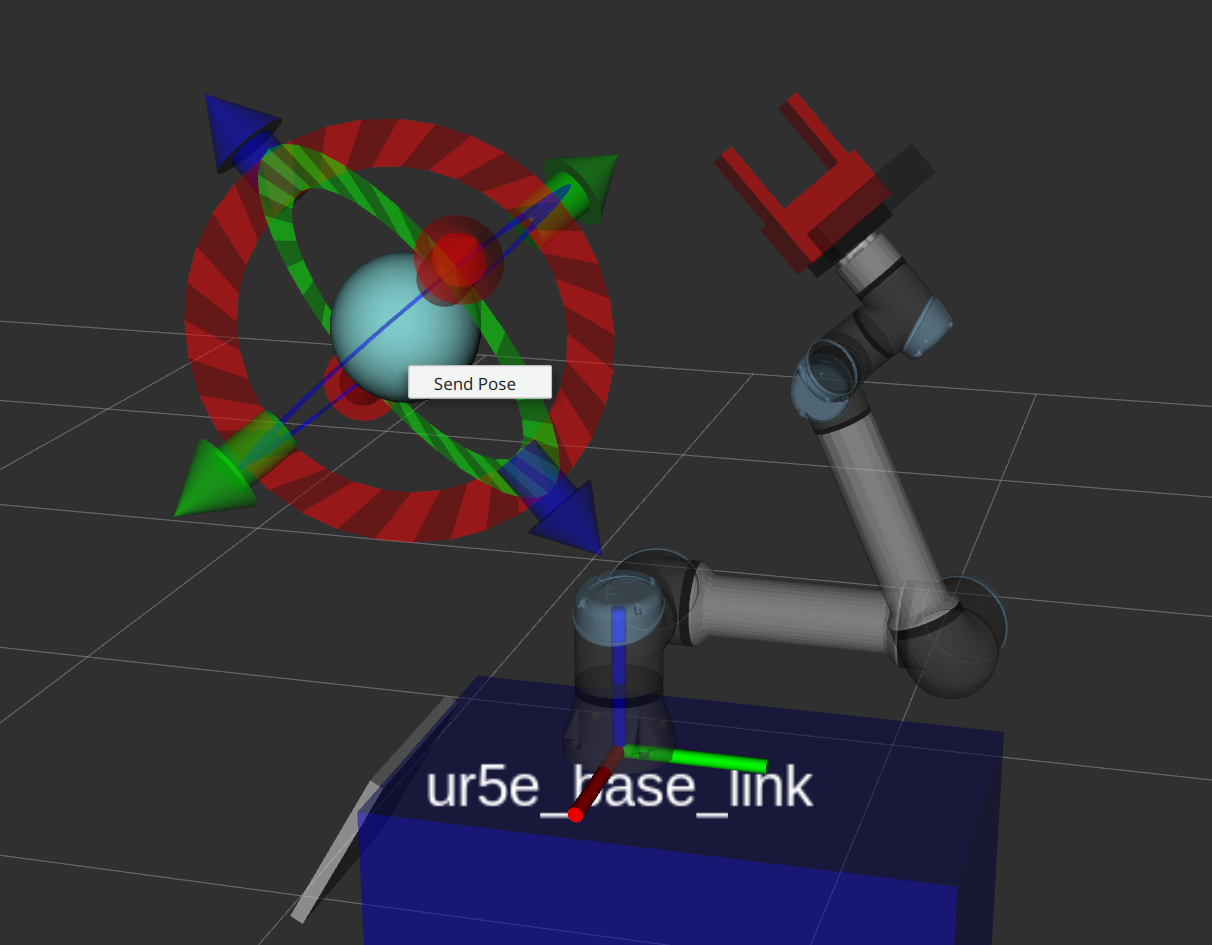
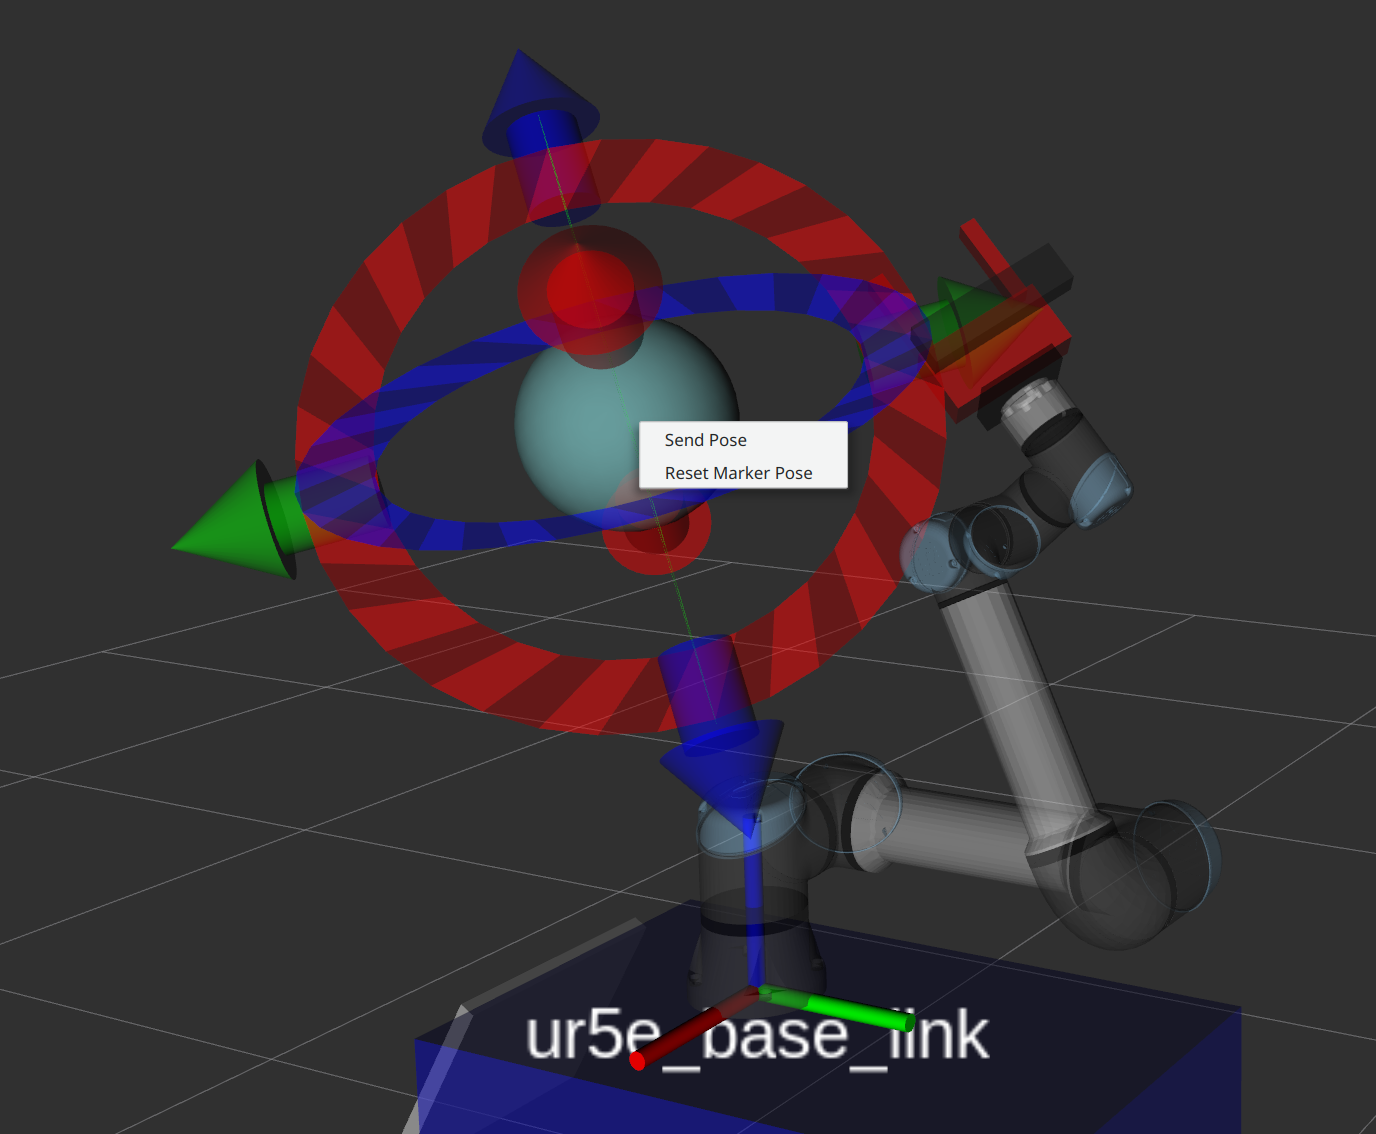
Doc: Updates marker image and add overlay explanation.

diff --git a/README.md b/README.md
@@ -61,3 +61,29 @@ This package publishes an interactive marker. You can move it to your desired go
 
 The marker position is updated when new goals arrive via messages or dynamic reconfigure.
 ![image info](./res/interactive_marker.png)
+
+## Apply an Overlay Motion
+
+The trajectory generator announces a service at `/cartesian_trajectory_generator/overlay_motion`.
+
+An example call can look like this:
+
+```
+rosservice call /cartesian_trajectory_generator/overlay_motion "header:
+  seq: 0
+  stamp: {secs: 0, nsecs: 0}
+  frame_id: 'world'
+motion: 1
+radius: 0.2
+path_distance: 0.01
+path_velocity: 0.1
+allow_decrease: false
+dir: {x: 0.0, y: 0.0, z: 1.0}"
+```
+
+The static values for the motion are defined in the [service message definition](srv/OverlayMotion.srv).
+
+### Cancelling an Overlay Motion
+
+A call with `motion = 0`, that corresponds to `NONE` in the service message definition, or an invalid value will cancel the current motion.\
+The reference pose will smoothly transition back to the last goal.
